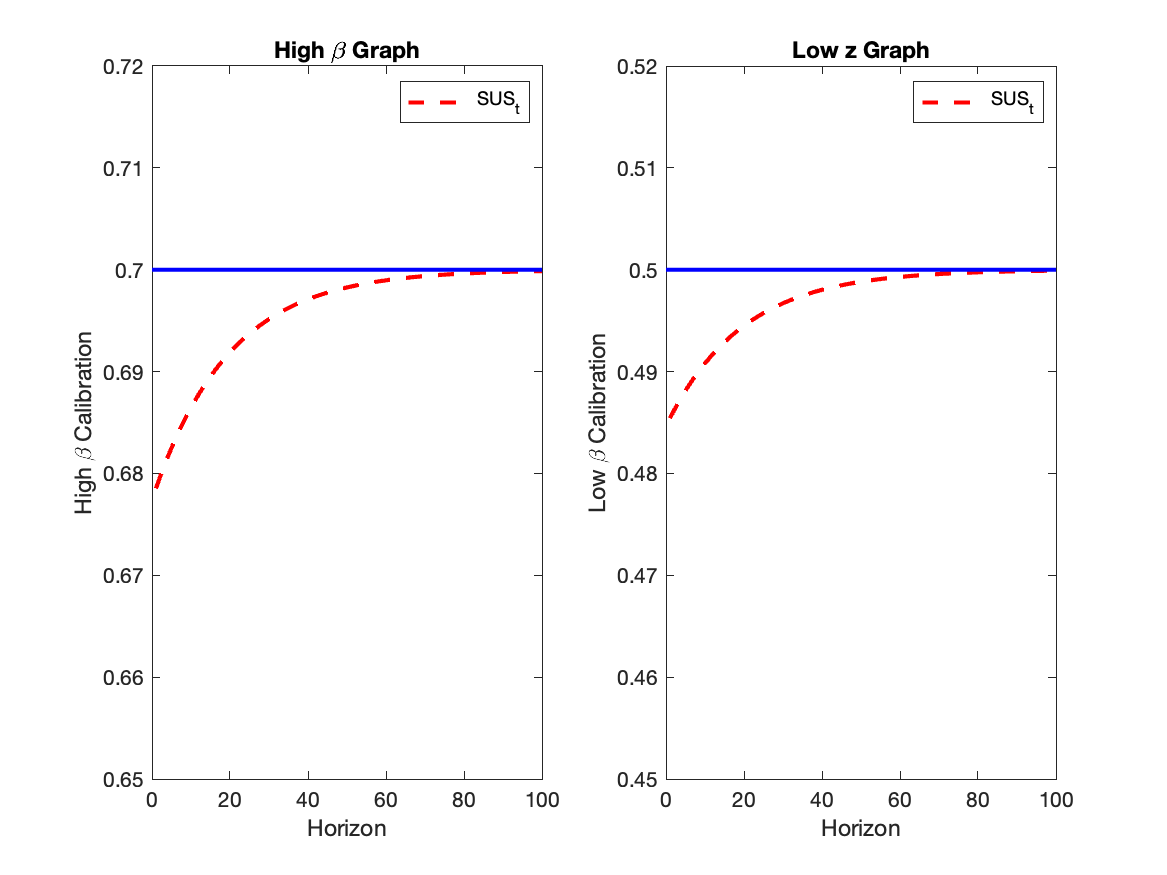
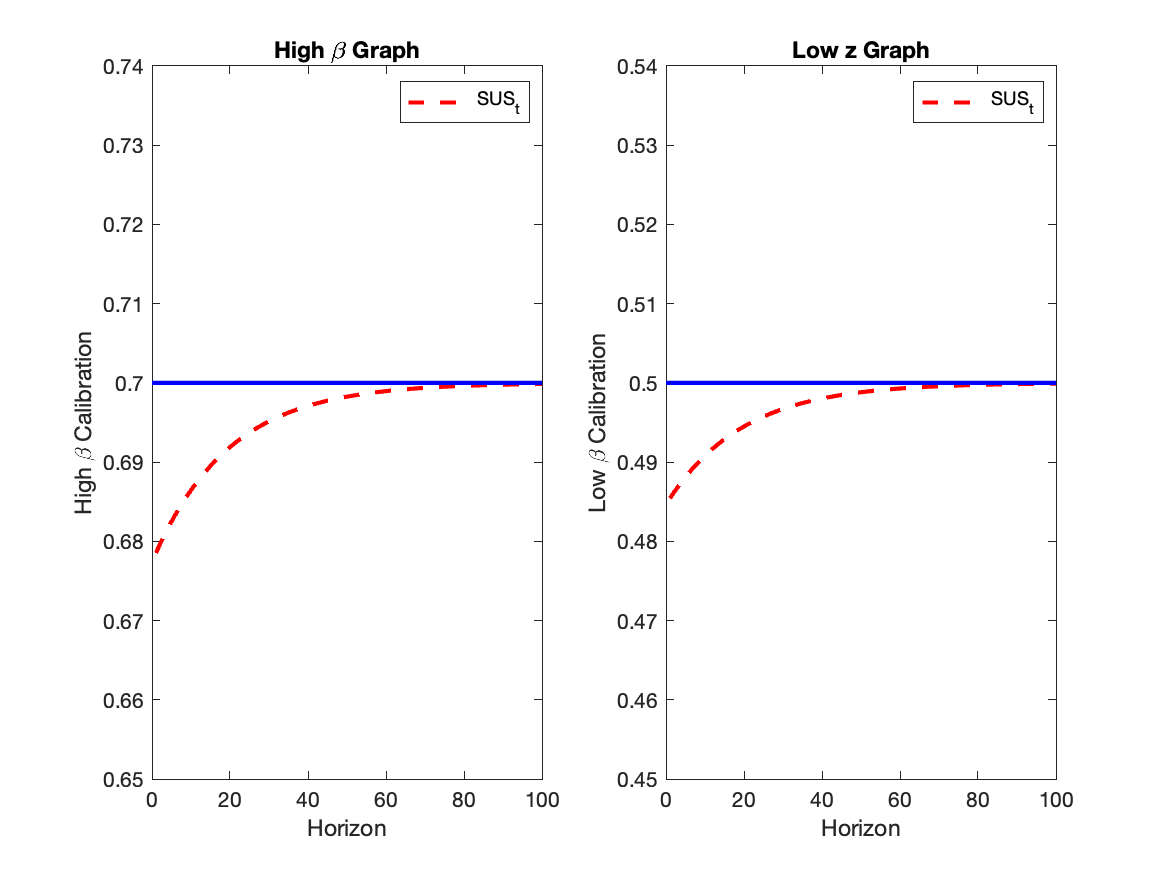
YOO

diff --git a/HW5/main_HW5.m b/HW5/main_HW5.m
@@ -9,35 +9,35 @@ kt=@(k) .95*k;
 kBarOld = exp(1.66);
 
 %initalize High Beta
-ktm1valsC1=zeros(101,1);
-SUStm1C1= zeros(101,1);
+SUSt_problem_1= zeros(101,1);
+ktm1vals_problem_1=zeros(101,1);
 kbarNew=exp(1.78);
 SUSt=@(k) .7+(.19*k);
 SUSbar=.7;
-ktm1valsC1(1) = (kBarOld/kbarNew)-1;
+ktm1vals_problem_1(1) = (kBarOld/kbarNew)-1;
 %insert simulation below
-SUStm1C1(1)=SUSt(ktm1valsC1(1));
+SUSt_problem_1(1)=SUSt(ktm1vals_problem_1(1));
 for i=2:101
-    ktm1valsC1(i) = kt(ktm1valsC1(i-1));
-    SUStm1C1(i)=SUSt(ktm1valsC1(i));
+    ktm1vals_problem_1(i) = kt(ktm1vals_problem_1(i-1));
+    SUSt_problem_1(i)=SUSt(ktm1vals_problem_1(i));
 end
 
 %% time for low z
 clf; clc;
-ktm1valsC2=zeros(101,1);
-SUStm1C2= zeros(101,1);
+ktm1vals_problem_2=zeros(101,1);
+SUSt_problem_2= zeros(101,1);
 kbarNew=exp(1.77);
 SUSt=@(k) .5+(.14*k);
 SUSbar=.5;
-ktm1valsC2(1) = (kBarOld/kbarNew)-1;
+ktm1vals_problem_2(1) = (kBarOld/kbarNew)-1;
 %insert simulation below
-SUStm1C2(1)=SUSt(ktm1valsC2(1));
+SUSt_problem_2(1)=SUSt(ktm1vals_problem_2(1));
 for i=2:101
-    ktm1valsC2(i) = kt(ktm1valsC2(i-1));
-    SUStm1C2(i)=SUSt(ktm1valsC2(i));
+    ktm1vals_problem_2(i) = kt(ktm1vals_problem_2(i-1));
+    SUSt_problem_2(i)=SUSt(ktm1vals_problem_2(i));
 end
 subplot(1,2,1)
-plot(SUStm1C1,'--r','linewidth',2)
+plot(SUSt_problem_1,'--r','linewidth',2)
 hold on 
 x = [0,100];
 y = [0.7, 0.7];
@@ -46,10 +46,10 @@ title('High \beta Graph')
 ylabel('High \beta Calibration')
 xlabel('Horizon')
 legend('SUS_t')
-axis([0 100 0.65 0.72])
+axis([0 100 0.65 0.74])
 
 subplot(1,2,2)
-plot(SUStm1C2,'--r','linewidth',2)
+plot(SUSt_problem_2,'--r','linewidth',2)
 hold on 
 x = [0,100];
 y = [0.5, 0.5];
@@ -58,6 +58,6 @@ title('Low z Graph')
 ylabel('Low \beta Calibration')
 xlabel('Horizon')
 legend('SUS_t')
-axis([0 100 0.45 0.52])
+axis([0 100 0.45 0.54])
 saveas(gcf,'Q1_figure.png');
 
